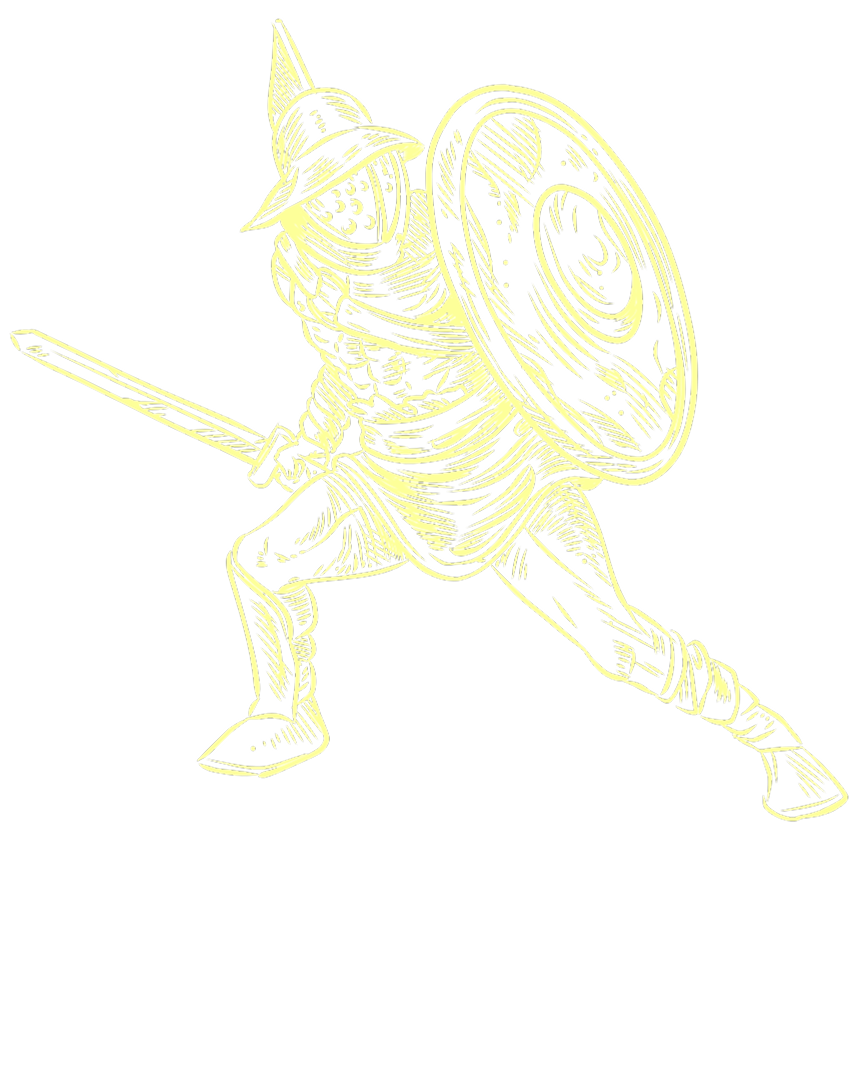
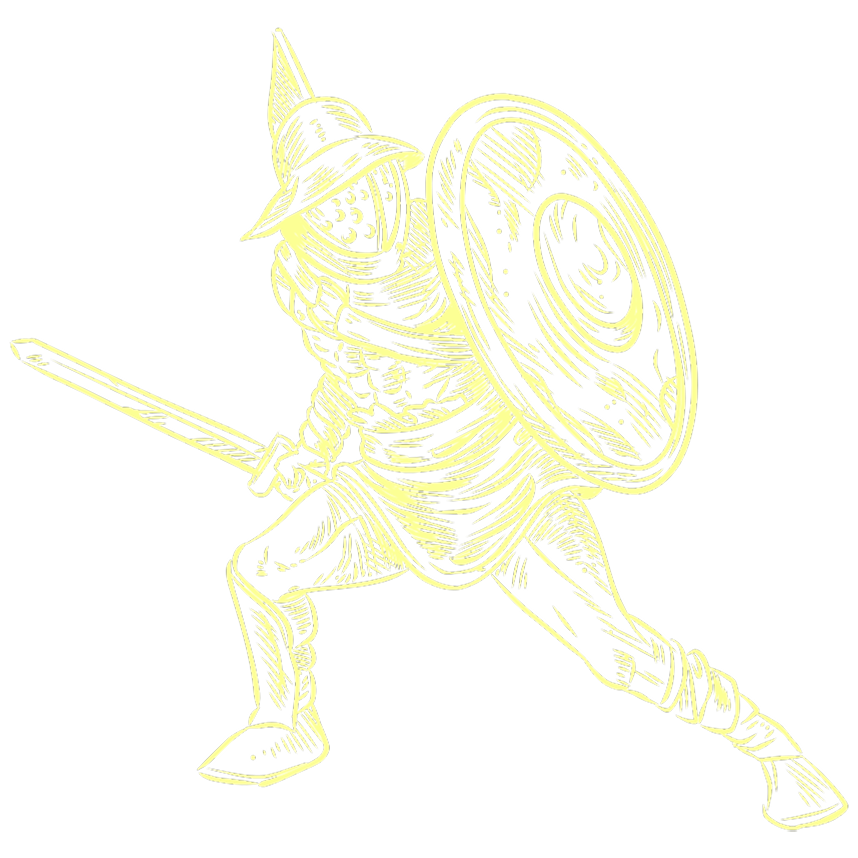
style(Home): adjusts Sectors imagery

Changed region(s): [[0.0, 0.0303, 1.0, 0.9697]]

diff --git a/src/components/home/Sectors.css b/src/components/home/Sectors.css
@@ -1,5 +1,6 @@
 .home-sectors {
   --sector-slope: 32px;
+  --sector-bleed: 6px;
   padding-bottom: 140px;
 }
 
@@ -14,7 +15,7 @@
 }
 
 .home-sector + .home-sector {
-  margin-top: calc(-1 * var(--sector-slope));
+  margin-top: calc(-1 * var(--sector-slope) - var(--sector-bleed));
 }
 
 .home-sector--dlc {
@@ -68,22 +69,18 @@
   width: 32%;
   height: 100%;
   object-fit: contain;
-  object-position: right bottom;
+  object-position: right center;
   filter: brightness(0.45) saturate(0.8);
   opacity: 0.45;
   pointer-events: none;
 }
 
 .home-sector--gg .home-sector__imagery {
-  top: 40px;
-  object-position: left bottom;
+  object-position: left center;
   transform: scaleX(-1);
   filter: brightness(0.50) hue-rotate(255deg) saturate(0.8);
 }
 
-.home-sector--op .home-sector__imagery {
-  top: 30px;
-}
 
 @media (max-width: 900px) {
   .home-sector {
@@ -92,29 +89,40 @@
   }
 
   .home-sector__content {
-    width: 64%;
+    width: min(64%, 560px);
   }
 
   .home-sector .home-sector__imagery {
-    /* top: 50%; */
     right: 0;
-    /* bottom: auto; */
-    /* translate: 0 -50%; */
+    top: 50%;
+    bottom: auto;
+    translate: 0 -50%;
     width: clamp(110px, 34vw, 288px);
     height: clamp(190px, 44vw, 340px);
-    /* max-height: calc(100% - 2 * var(--sector-slope)); */
     opacity: 0.35;
   }
 
   .home-sectors {
     --sector-slope: 22px;
+    --sector-bleed: 6px;
     padding-bottom: 90px;
   }
 }
 
 @media (max-width: 540px) {
   .home-sector__content {
-    width: 68%;
+    width: 100%;
+    max-width: 480px;
+    margin-inline: auto;
+  }
+
+  .home-sector__content p {
+    text-align: center;
+  }
+
+  .home-sector .home-sector__texture {
+    /* left: clamp(10px, 4vw, 20px); */
+    width: clamp(70px, 24vw, 115px);
   }
 
   .home-sector .home-title {
@@ -127,7 +135,9 @@
   }
 
   .home-sector .home-sector__imagery {
-    height: clamp(190px, 56vw, 280px);
-    opacity: 0.45;
+    right: -16vw;
+    width: clamp(220px, 68vw, 320px);
+    height: clamp(280px, 85vw, 380px);
+    opacity: 0.24;
   }
 }
